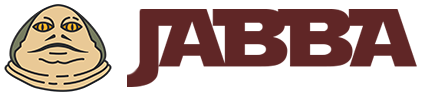
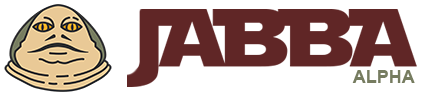
readme

Changed region(s): [[0.0, 0.0309, 0.9835, 0.9588], [0.7683, 0.0928, 0.8298, 0.1856], [0.6147, 0.0928, 0.6761, 0.1237]]

diff --git a/ReadMe.Md b/ReadMe.Md
@@ -3,15 +3,15 @@
 Achuta! Jabba is a json friendly reverse proxy for micro-services, written in golang.
 
 ## Features
-* map URLs to upstream HTTP and TLS based micro-services 
-* policy based routing for a/b testing
 * HTTP 1.1, native TLS 1.2 support with A+ rating
-* GZIP auto-encoding in both directions
+* map URLs to upstream HTTP and TLS based micro-services, inc. policy based routing for a/b testing
+* highly concurrent with multiprocessor support
+
 
 
 # What's new
-## v0.1.1
-* partially complete and under development
+## 20/03/2020
+Jabba is partially complete, under development and currently alpha grade software.
 
 # Up and running
 
@@ -28,7 +28,7 @@ Specify these env vars to control server behaviour
 Server version for binary distribution
 
 ```bash
-VERSION="v0.1.1"
+VERSION="alpha"
 ```
 
 ## LOGLEVEL
